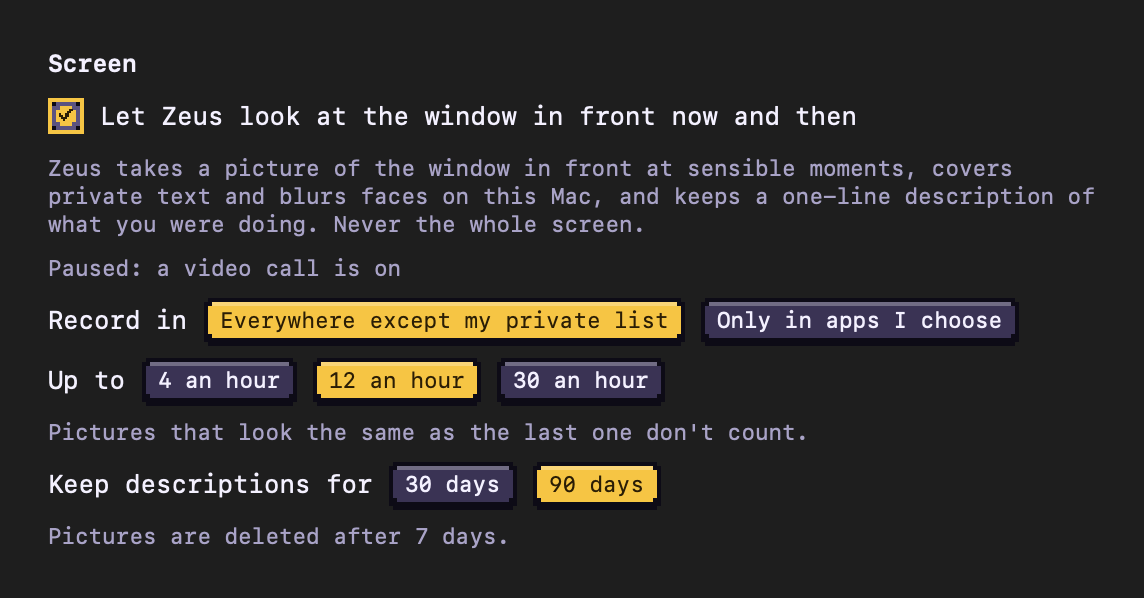
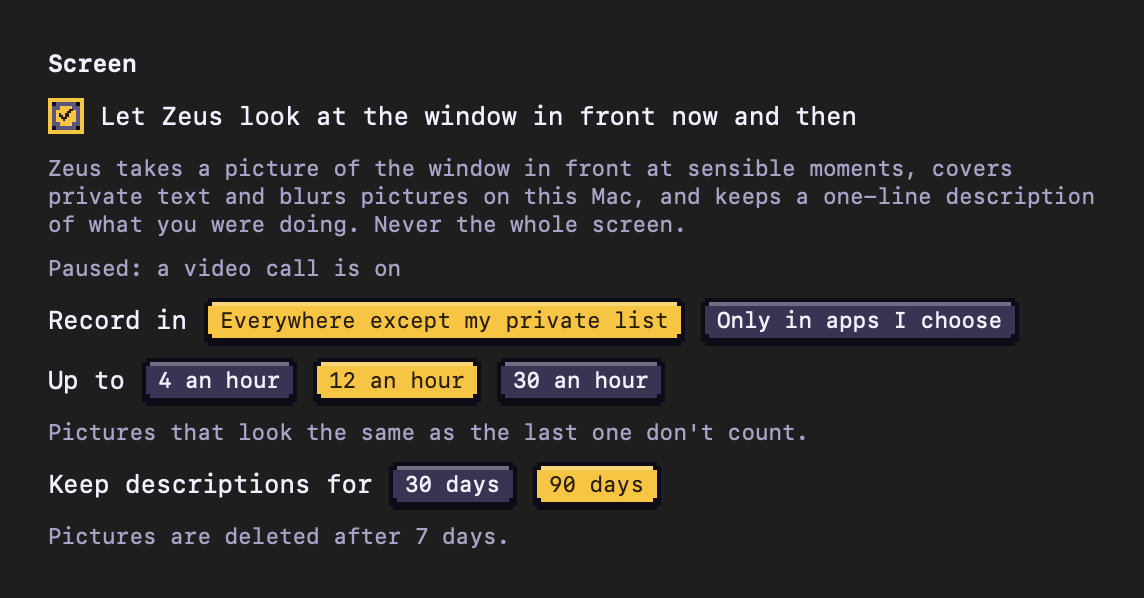
Level 4 Typing design: consent, Input Monitoring flow, typing in What Zeus Kept, private-input line; pictures blurred per LM2-D2 decision (LM2-D3)
Claude-Session: https://claude.ai/code/session_012r8H4QHL5ohdtdo5L588Z2

Changed region(s): [[0.0306, 0.301, 0.9178, 0.3913], [0.9484, 0.301, 0.979, 0.3311]]

diff --git a/scripts/design-harness/DesignerAuditRenders.swift b/scripts/design-harness/DesignerAuditRenders.swift
@@ -1536,7 +1536,7 @@ private struct LM2ScreenSection: View {
         LM2Settings {
             Text("Screen").settingsHeading()
             Toggle("Let Zeus look at the window in front now and then", isOn: .constant(true))
-            Text("Zeus takes a picture of the window in front at sensible moments, covers private text and blurs faces on this Mac, and keeps a one-line description of what you were doing. Never the whole screen.").settingsCaption()
+            Text("Zeus takes a picture of the window in front at sensible moments, covers private text and blurs pictures on this Mac, and keeps a one-line description of what you were doing. Never the whole screen.").settingsCaption()
             Text(caption).settingsCaption()
             SettingsSegments(label: "Record in", options: [(0, "Everywhere except my private list"), (1, "Only in apps I choose")], selection: .constant(0))
             SettingsSegments(label: "Up to", options: [(4, "4 an hour"), (12, "12 an hour"), (30, "30 an hour")], selection: $cap)
@@ -1548,14 +1548,14 @@ private struct LM2ScreenSection: View {
 }
 
 private struct LM2ScreenConsent: View {
-    let keeps = ["A picture of the window in front, with private text covered and faces blurred, for 7 days",
+    let keeps = ["A picture of the window in front, with private text covered and pictures blurred, for 7 days",
                  "A one-line description of what you were doing, for 90 days"]
     let never = ["The rest of your screen or other windows", "Anything during a video call or while presenting",
                  "Anything while a password field is active", "Private windows and apps on your private list", "Sound"]
     var body: some View {
         LM2Settings(width: 460) {
             Text("Screen").settingsTitle()
-            Text("Zeus takes a picture of the window in front at sensible moments, so your assistant knows what you were looking at. Before anything is kept, Zeus covers private text and blurs faces, here on this Mac.")
+            Text("Zeus takes a picture of the window in front at sensible moments, so your assistant knows what you were looking at. Before anything is kept, Zeus covers private text and blurs pictures and faces, here on this Mac.")
                 .fixedSize(horizontal: false, vertical: true)
             list("Zeus keeps", keeps)
             list("Zeus never keeps", never)
@@ -1568,7 +1568,7 @@ private struct LM2ScreenConsent: View {
                     Text("10:12  Safari  Reviewing account information.").font(.system(size: 11, design: .monospaced))
                 }
             }
-            Text("Grey boxes are text Zeus covered. Faces are blurred. The picture is kept for 7 days, the description for 90.").settingsCaption()
+            Text("Grey boxes are text Zeus covered. Pictures and faces are blurred. The picture is kept for 7 days, the description for 90.").settingsCaption()
             Text("Descriptions go to your assistant in summaries, like any message. Pictures never leave this Mac unless you attach one yourself.").settingsCaption()
             Text("Next, macOS asks you to allow Zeus under Screen Recording. Zeus uses it only for these pictures.").settingsCaption()
             HStack { Spacer(); Button("Not Now") {}; Button("Continue") {}.buttonStyle(ZeusButtonStyle(.primary, size: .small)) }
@@ -1625,7 +1625,7 @@ private struct LM2PictureDetail: View {
                 VStack(alignment: .leading, spacing: 6) {
                     LM2MockFrame(outlined: true).frame(width: 448, height: 280).overlay(Rectangle().strokeBorder(palette.outline, lineWidth: 1))
                         .accessibilityElement().accessibilityLabel("Picture of Safari, 3 areas covered")
-                    Text("▭ Covered text · ▭ Blurred face · 2 covered · 1 blurred").settingsCaption()
+                    Text("▭ Covered text · ▭ Blurred picture · 2 covered · 1 blurred").settingsCaption()
                 }
                 VStack(alignment: .leading, spacing: 8) {
                     field("App", "Safari")
@@ -1700,6 +1700,145 @@ extension DesignerAuditRenders {
             try await Snap.render("lm2b-picture-detail", look: look, padding: 0, settle: 0.5) { LM2PictureDetail() }
             try await Snap.render("lm2b-ask-chips", look: look, settle: 0.5) { LM2AskChips(allLevels: true) }
             try await Snap.render("lm2b-ask-none", look: look, settle: 0.5) { LM2AskChips(allLevels: false) }
+        }
+    }
+}
+
+// MARK: - LM2 Phase C: Level 4 "Typing" mock-ups (docs/design/PRIVACY.md §10)
+
+private struct LM2TypingSection: View {
+    @State var keep = 24
+    var caption: String? = nil
+    var aiOff = false
+    var body: some View {
+        LM2Settings {
+            Text("Typing").settingsHeading()
+            Toggle("Let Zeus keep what I type in apps I choose", isOn: .constant(!aiOff)).disabled(aiOff)
+            Text("Zeus notes what you were typing about, like \u{201C}replying to a doctor about rescheduling\u{201D}, so your assistant can help with it. Only in the apps you choose, and never in password fields.").settingsCaption()
+            if aiOff {
+                Text("Typing needs Apple Intelligence, which removes names and numbers from what you type. Turn it on in System Settings › Apple Intelligence & Siri.").settingsCaption()
+            } else {
+                if let caption { Text(caption).settingsCaption() }
+                HStack(spacing: ZeusTheme.Spacing.s) { Text("Record in").settingsBody(); Text("Only in apps I choose").settingsCaption() }
+                LM2AppList(apps: ["Mail", "Notes", "Xcode"])
+                Text("Zeus never records typing in an app you haven't added.").settingsCaption()
+                SettingsSegments(label: "Keep the words", options: [(0, "Don't keep"), (24, "24 hours"), (168, "7 days")], selection: $keep)
+                Text("Topics are kept for 30 days. The words, with private details removed, are kept as you choose here.").settingsCaption()
+            }
+        }
+    }
+}
+
+private struct LM2TypingConsent: View {
+    let keeps = ["What each stretch of typing was about, for 30 days",
+                 "The words, with private details removed, for 24 hours (you can change this, or keep no words at all)"]
+    let never = ["Anything you type into a password field", "Typing in apps you haven't chosen, or in private windows",
+                 "What you paste: Zeus only notes that you pasted", "Typing made by other apps, such as a password manager filling in a form"]
+    var body: some View {
+        LM2Settings(width: 460) {
+            Text("Typing").settingsTitle()
+            Text("Zeus notes what you were typing about in the apps you choose, so your assistant knows what you're working on and can help with it. Before anything is kept, Zeus removes names, numbers, addresses and secrets, here on this Mac.")
+                .fixedSize(horizontal: false, vertical: true)
+            list("Zeus keeps", keeps)
+            list("Zeus never keeps", never)
+            Text("An example").settingsHeading()
+            ZeusFieldChrome {
+                VStack(alignment: .leading, spacing: 4) {
+                    StoredText(text: "14:05  Mail  hi dr ‹name› can we move thursday to 3pm my ‹health› is still sore")
+                    Text("       → Replying to a doctor about rescheduling an appointment")
+                }.font(.system(size: 11, design: .monospaced)).fixedSize(horizontal: false, vertical: true)
+            }
+            Text("The first line is the words as kept for 24 hours. The second is the topic kept for 30 days, and the only part your assistant sees.").settingsCaption()
+            Text("Topics go to your assistant in summaries, like any message. The words never leave this Mac.").settingsCaption()
+            Text("Next, macOS asks you to allow Zeus under Input Monitoring. Zeus uses it only to read keys in the apps you choose.").settingsCaption()
+            Text("If you'd rather keep no words, choose Don't keep after turning this on. Topics still work.").settingsCaption()
+            HStack { Spacer(); Button("Not Now") {}; Button("Continue") {}.buttonStyle(ZeusButtonStyle(.primary, size: .small)) }
+        }
+    }
+    func list(_ title: String, _ items: [String]) -> some View {
+        VStack(alignment: .leading, spacing: 2) {
+            Text(title).settingsHeading()
+            ForEach(items, id: \.self) { Text("· " + $0).settingsBody().fixedSize(horizontal: false, vertical: true) }
+        }
+    }
+}
+
+private struct LM2TypingKept: View {
+    @Environment(\.zeusPalette) private var palette
+    var body: some View {
+        LM2Settings(width: 672) {
+            HStack {
+                Button("‹") {}; Text("Today").settingsBody(); Button("›") {}.disabled(true)
+                Spacer()
+                Button("Typing ▾") {}; Button("All apps ▾") {}
+            }
+            group("Mail · 14:00–15:00", "3 stretches", [
+                ("14:05", "Replying to a doctor about rescheduling an appointment", "hi dr ‹name› can we move thursday to 3pm my ‹health› is still sore"),
+                ("14:31", "Drafting a project update for a colleague", nil),
+                ("14:52", "Replying to support about a login problem", "tried again after ‹pasted› still says expired"),
+            ], hovered: 0)
+            SettingsDivider()
+            group("Xcode · 13:00–14:00", "2 stretches", [
+                ("13:12", "Coding a fix for a restart race", "fix restart race guard state idle"),
+                ("13:40", "Typed in Xcode", "words deleted after 24 hours"),
+            ], hovered: nil)
+        }
+    }
+    func group(_ title: String, _ count: String, _ items: [(String, String, String?)], hovered: Int?) -> some View {
+        VStack(alignment: .leading, spacing: 6) {
+            HStack { Text("▾ " + title).settingsHeading(); Spacer(); Text(count).settingsCaption() }
+            ForEach(Array(items.enumerated()), id: \.offset) { i, item in
+                HStack(alignment: .firstTextBaseline, spacing: ZeusTheme.Spacing.s) {
+                    Text(item.0).settingsCaption().frame(width: 44, alignment: .leading)
+                    VStack(alignment: .leading, spacing: 2) {
+                        Text("→ " + item.1).settingsBody()
+                        if let words = item.2, !words.hasPrefix("words ") {
+                            StoredText(text: words).font(.system(size: 11, design: .monospaced)).foregroundStyle(palette.secondaryText)
+                        } else {
+                            Text(item.2 ?? "words not kept").settingsCaption()
+                        }
+                    }
+                    Spacer()
+                    if hovered == i { Button("Delete") {} }
+                }
+                .padding(.vertical, 3).padding(.horizontal, 4)
+                .background(hovered == i ? palette.field : .clear)
+            }
+        }
+    }
+}
+
+/// The Zeus menu's status section while a password field is active (a mock of the NSMenu, not the real menu).
+private struct LM2PrivateInputMenu: View {
+    @Environment(\.zeusPalette) private var palette
+    var body: some View {
+        VStack(alignment: .leading, spacing: 4) {
+            Text("Private input: Zeus isn't noting typing").foregroundStyle(.secondary)
+            Text("Claude is working…").foregroundStyle(.secondary)
+            Divider()
+            Text("Talk to Zeus…")
+            Text("Ask About This")
+            Text("Hide Zeus")
+        }
+        .font(.system(size: 13)).padding(10).frame(width: 300, alignment: .leading)
+        .background(RoundedRectangle(cornerRadius: 8).fill(Color(nsColor: .windowBackgroundColor)))
+        .overlay(RoundedRectangle(cornerRadius: 8).strokeBorder(Color.secondary.opacity(0.3)))
+    }
+}
+
+extension DesignerAuditRenders {
+    /// LM2-D3: Level 4 "Typing": the Settings section and its states, the consent sheet, typing in What Zeus Kept, and the Private input menu line.
+    @Test func typingMockups() async throws {
+        for look in Snap.Look.basic {
+            try await Snap.render("lm2c-typing-section", look: look, padding: 0, settle: 0.5) { LM2TypingSection() }
+            try await Snap.render("lm2c-typing-section-paused", look: look, padding: 0, settle: 0.5) { LM2TypingSection(caption: "Paused: private input.") }
+            try await Snap.render("lm2c-typing-section-revoked", look: look, padding: 0, settle: 0.5) {
+                LM2TypingSection(caption: "Input Monitoring is off for Zeus, so nothing you type is noted. · Open System Settings")
+            }
+            try await Snap.render("lm2c-typing-section-ai-off", look: look, padding: 0, settle: 0.5) { LM2TypingSection(aiOff: true) }
+            try await Snap.render("lm2c-consent-level4", look: look, padding: 0, settle: 0.5) { LM2TypingConsent() }
+            try await Snap.render("lm2c-kept-typing", look: look, padding: 0, settle: 0.5) { LM2TypingKept() }
+            try await Snap.render("lm2c-private-input-menu", look: look, settle: 0.5) { LM2PrivateInputMenu() }
         }
     }
 }

diff --git a/docs/design/PRIVACY.md b/docs/design/PRIVACY.md
@@ -88,10 +88,7 @@ Same frame as the L1 sheet.
 ### 2.4 Drafts for later levels (not built in Phase A)
 
 - **Level 3, "Screen":** specified in §9 (Phase B).
-- **Level 4, "Typing":**
-  - Switch: "Let Zeus keep what I type in apps I choose"
-  - The coin is fixed to "Only in apps I choose", with no "Everywhere" option.
-  - Never: "Password fields, apps you haven't chosen, private windows"
+- **Level 4, "Typing":** specified in §10 (Phase C).
 
 ## 3. The coin and the lists
 
@@ -260,13 +257,18 @@ These are system lines in the thread: the existing notice style, the same as "Cl
 
 Pipeline and costs: `docs/research/on-device-vision.md`. Renders: `scripts/design-harness/render.sh "screenMockups()"` → `docs/design/lm2/lm2b-*.png`.
 
+**Pictures (PM decision, LM2-D2):**
+- Every picture region in the frame larger than 48×48 px is pixellated by default.
+- Whole-frame face detection runs as a cheap extra. There's no tiling at capture time.
+- The copy says "pictures and faces are blurred".
+
 ### 9.1 The level section in Settings › Privacy
 
 ```
 Screen                                                        [settingsHeading]
 [ ] Let Zeus look at the window in front now and then           [switch]
 Zeus takes a picture of the window in front at sensible moments, covers
-private text and blurs faces on this Mac, and keeps a one-line description
+private text and blurs pictures on this Mac, and keeps a one-line description
 of what you were doing. Never the whole screen.                [caption]
 
 Record in   ( Everywhere except my private list | Only in apps I choose )
@@ -289,9 +291,9 @@ This paragraph is used in the consent sheet and in SETUP.md:
 ### 9.3 Consent sheet, Level 3 (one time)
 
 - **Title:** "Screen"
-- **Body:** "Zeus takes a picture of the window in front at sensible moments, so your assistant knows what you were looking at. Before anything is kept, Zeus covers private text and blurs faces, here on this Mac."
+- **Body:** "Zeus takes a picture of the window in front at sensible moments, so your assistant knows what you were looking at. Before anything is kept, Zeus covers private text and blurs pictures and faces, here on this Mac."
 - **"Zeus keeps"**
-  - "A picture of the window in front, with private text covered and faces blurred, for 7 days"
+  - "A picture of the window in front, with private text covered and pictures blurred, for 7 days"
   - "A one-line description of what you were doing, for 90 days"
 - **"Zeus never keeps"**
   - "The rest of your screen or other windows"
@@ -303,7 +305,7 @@ This paragraph is used in the consent sheet and in SETUP.md:
 - **"An example of what's kept"**: a 360×225 mock window in the field chrome.
   - It shows a browser page with two text lines covered by solid `fieldBorder` boxes with a 1-px `outline`, and a pixellated portrait.
   - Under it, monospaced: "10:12  Safari  Reviewing account information."
-  - Caption: "Grey boxes are text Zeus covered. Faces are blurred. The picture is kept for 7 days, the description for 90."
+  - Caption: "Grey boxes are text Zeus covered. Pictures and faces are blurred. The picture is kept for 7 days, the description for 90."
 - **Caveat** (caption): "Descriptions go to your assistant in summaries, like any message. Pictures never leave this Mac unless you attach one yourself."
 - **Permission** (caption): "Next, macOS asks you to allow Zeus under Screen Recording. Zeus uses it only for these pictures."
 - **Buttons:** "Not Now" and "Continue".
@@ -328,7 +330,7 @@ This paragraph is used in the consent sheet and in SETUP.md:
 **Detail window:** clicking a thumbnail (or Return on a focused row) opens a sheet titled "Picture from 10:12".
 - **Left:** the frame, fitted.
   - Every covered area is outlined with a 1-px `focusRing` rectangle.
-  - Legend under it (caption): "▭ Covered text · ▭ Blurred face", with counts: "3 covered · 1 blurred".
+  - Legend under it (caption): "▭ Covered text · ▭ Blurred picture", with counts: "3 covered · 1 blurred".
 - **Right column:**
   - App
   - Window, as stored, with placeholders visible
@@ -364,3 +366,116 @@ This paragraph is used in the consent sheet and in SETUP.md:
 - **With no level on:** "Ask About This" still opens the conversation, with the caption "Turn on Windows and pages or Screen in Settings › Privacy to attach what's in front."
 - **Sent chips** go to the "Sent to your assistant" ledger as "Attached: Window, Picture" on the message's row.
 - **A hard stop at that moment** (password field, private window): the affected chips don't appear, and the caption adds "Some things weren't attached because they're private."
+
+## 10. Level 4 · "Typing" (Phase C)
+
+Pipeline, costs and the reasons behind these choices: `docs/research/on-device-keystrokes.md`. Renders: `scripts/design-harness/render.sh "typingMockups()"` → `docs/design/lm2/lm2c-*.png`.
+
+**What's kept:**
+- A one-line **topic** per stretch of typing, for 30 days.
+- The **words**, with private details removed, for 24 hours by default.
+- Level 4 needs Apple Intelligence, because the on-device model is what catches names and numbers in casual typing.
+
+### 10.1 The level section in Settings › Privacy
+
+```
+Typing                                                        [settingsHeading]
+[ ] Let Zeus keep what I type in apps I choose                 [switch]
+Zeus notes what you were typing about, like "replying to a doctor about
+rescheduling", so your assistant can help with it. Only in the apps you
+choose, and never in password fields.                          [caption]
+
+Record in   Only in apps I choose                              [label settingsBody, value settingsCaption: not a choice]
+<allow list, §3: rows with icon, name, "–"; "Add App…">
+No apps chosen yet, so nothing is recorded.                    [empty-state caption]
+
+Keep the words   ( Don't keep | 24 hours | 7 days )            [SettingsSegments, default 24 hours]
+Topics are kept for 30 days. The words, with private details removed, are kept as you choose here.   [caption]
+```
+
+- **The coin is fixed.** Level 4 has no "Everywhere" option.
+  - "Record in" is shown as plain text: "Only in apps I choose".
+  - Caption under the list: "Zeus never records typing in an app you haven't added."
+  - The private list still wins: adding an app that's on it shows "<App> is on your private list. Remove it there first."
+- **Browsers in the allow list:** typing in private windows is never kept. Safari can't tell its private windows apart (§3), so adding Safari here shows the caption "Typing in Safari's private windows can't be told apart, so it's kept too."
+- **Apple Intelligence off:** the switch is disabled, with the caption "Typing needs Apple Intelligence, which removes names and numbers from what you type. Turn it on in System Settings › Apple Intelligence & Siri."
+- **IME:** with a Japanese, Chinese or Korean input source active, the record reads "Typed in <App>" and has no words and no topic. There's no extra copy.
+
+### 10.2 Consent sheet, Level 4 (one time)
+
+- **Title:** "Typing"
+- **Body:** "Zeus notes what you were typing about in the apps you choose, so your assistant knows what you're working on and can help with it. Before anything is kept, Zeus removes names, numbers, addresses and secrets, here on this Mac."
+- **"Zeus keeps"**
+  - "What each stretch of typing was about, for 30 days"
+  - "The words, with private details removed, for 24 hours (you can change this, or keep no words at all)"
+- **"Zeus never keeps"**
+  - "Anything you type into a password field"
+  - "Typing in apps you haven't chosen, or in private windows"
+  - "What you paste: Zeus only notes that you pasted"
+  - "Typing made by other apps, such as a password manager filling in a form"
+- **"An example"**, in the field chrome:
+  ```
+  14:05  Mail  hi dr ‹name› can we move thursday to 3pm my ‹health› is still sore
+         → Replying to a doctor about rescheduling an appointment
+  ```
+  - Caption under it: "The first line is the words as kept for 24 hours. The second is the topic kept for 30 days, and the only part your assistant sees."
+- **Caveat** (caption): "Topics go to your assistant in summaries, like any message. The words never leave this Mac."
+- **Permission** (caption): "Next, macOS asks you to allow Zeus under Input Monitoring. Zeus uses it only to read keys in the apps you choose."
+- **Suggestion** (caption): "If you'd rather keep no words, choose Don't keep after turning this on. Topics still work."
+- **Buttons:** "Not Now" and "Continue".
+
+### 10.3 Choosing apps first
+
+- Turning Level 4 on with an empty allow list opens the app picker straight after the consent sheet. The panel message is "Choose the apps where Zeus may note what you type."
+- Cancelling the picker leaves the level on, with the empty-state caption.
+
+### 10.4 Input Monitoring flow
+
+| State | Caption under the switch | Link |
+|---|---|---|
+| Asked, not yet allowed | "Waiting for Input Monitoring permission." | "Open System Settings" |
+| Allowed, macOS needs a reopen | "Allowed. Reopen Zeus to start." | "Reopen Zeus" |
+| Denied | "Input Monitoring is off for Zeus, so nothing you type is noted." | "Open System Settings" |
+| Revoked while running (found by Zeus's check, at most a minute later) | the same as Denied | "Open System Settings" |
+| Paused by a password field | "Paused: private input." | none |
+| Paused because the front app isn't chosen | nothing (that's normal) | — |
+
+- The level stays on through denied and revoked states and resumes by itself when permission comes back.
+- Zeus asks macOS for permission only from the consent sheet, never on its own later.
+
+### 10.5 The "Private input" indicator
+
+While secure input is on (a password field is active) and Level 4 is on:
+
+- **Zeus menu:** the status section shows a line "Private input: Zeus isn't noting typing". It's a disabled line, in the same place and style as "Hidden until …".
+- **Settings › Privacy › Typing:** the caption reads "Paused: private input." (§10.4).
+- **The avatar and the thread show nothing.** A visible cue exactly when a password is being typed would draw attention to that moment. The menu line is there for anyone who checks.
+- **VoiceOver:** nothing is announced, for the same reason.
+- When secure input turns off, the line goes. The run that was open when it turned on is discarded, not kept.
+
+### 10.6 Typing in What Zeus Kept
+
+- **Level filter:** "Typing" joins the Level filter.
+- **Grouping:** typing items are grouped **by app, then by hour**:
+  ```
+  Mail · 14:00–15:00                                   3 stretches
+    14:05  → Replying to a doctor about rescheduling an appointment
+           hi dr ‹name› can we move thursday to 3pm my ‹health› is still sore
+    14:31  → Drafting a project update for a colleague
+           words not kept
+  ```
+- **Each stretch** shows its topic first (`settingsBody`, prefixed with "→"), and below it the words exactly as stored (`settingsCaption`, monospaced, placeholders in `secondaryText`). In place of the words, the caption can read:
+  - "words not kept" (Don't keep is on)
+  - "words deleted after 24 hours"
+  - "pasted" (for `‹pasted›` segments, shown as the placeholder)
+- **The group header** gives the app, the hour range and the number of stretches. Click it to collapse; groups are expanded by default for today and collapsed for earlier days.
+- **Delete:** per stretch (hover and context menu, Undo toast). Per group, use "Delete <App> 14:00–15:00", which asks "Delete what Zeus kept from your typing in <App> between 14:00 and 15:00?" Deleting removes both the topic and the words.
+- **Search** matches topics and words. A match on the words shows the words even in collapsed groups.
+
+### 10.7 Retention
+
+- **"Keep the words"** (`SettingsSegments`): "Don't keep", "24 hours" (default), "7 days".
+  - Changing it to a shorter choice deletes older words at once.
+  - There's no confirmation; the caption under it changes to "Deleted words older than 24 hours."
+- **Topics** are kept for 30 days and aren't configurable in v1.
+- "Delete Everything…" covers both.

diff --git a/docs/design/CONVERSATION.md b/docs/design/CONVERSATION.md
@@ -521,3 +521,4 @@ The full copy and the reasons behind it are in `PRIVACY.md` §6–7. This sectio
   - Nothing dropped is journalled. It goes to the assistant only when you press Send, like any attachment.
 - **Reflection** is never shown as a user message. The ledger in What Zeus Kept lists it as "Day reflection". If the agent replies in the thread, the reply is an ordinary agent card.
 - **Ask About This (Phase B):** "Ask About This" (Zeus menu, or the Talk shortcut with Shift added) opens the conversation with context chips already attached: Window, Selection, Page and Picture. Each is removable, and the full copy is in `PRIVACY.md` §9.6. The chips use the attachment-chip style above the composer, and Send works with chips alone. Render: `lm2/lm2b-ask-chips__*.png`.
+- **Typing (Phase C):** Level 4 adds nothing to the thread or the avatar. While a password field is active, the Zeus menu's status section shows the disabled line "Private input: Zeus isn't noting typing" (`PRIVACY.md` §10.5).
